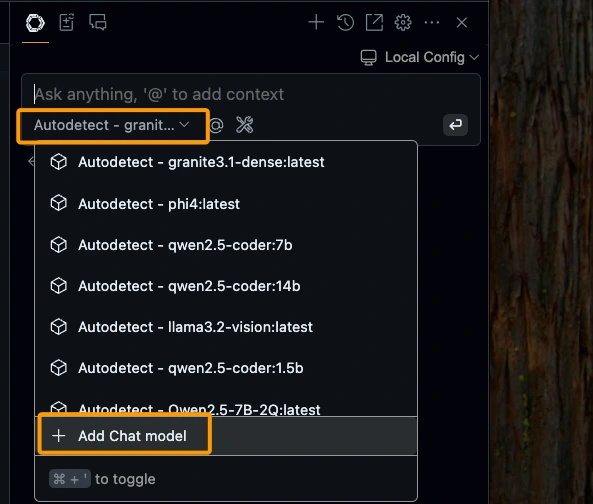
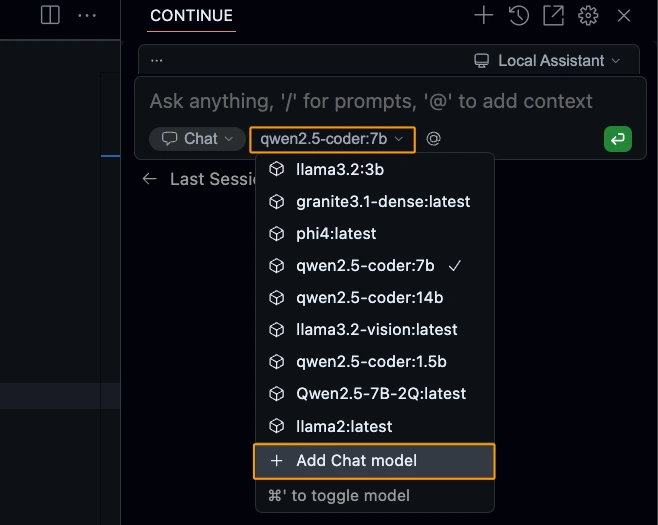
Site updated: 2025-03-29 16:49:34

diff --git a/2025/03/20/ollama-continue/index.html b/2025/03/20/ollama-continue/index.html
@@ -17,7 +17,7 @@
         <link rel="icon" href="https://petercha90.github.io/assets/images/pp.webp">
     
     
-    <script type="application/ld+json">{"@context":"http://schema.org","@type":"BlogPosting","author":{"@type":"Person","name":"Peter Cha","sameAs":[],"image":"peter.webp"},"articleBody":"\n\n\n\n\n안녕하세요, PETER입니다.👋  아시는 분들은 이미 아시는 내용일 수 있겠지만, 무료로 Offline AI 코딩 방법에 대해 두 Part에 걸쳐 나눠보려 합니다. Cursor AI나 Copilot과 같은 AI코딩을 사용하기에는 구독료가 부담스러우셨던 분들께도 좋은 소식이길 바랍니다.\n\n이제 우리는 코딩을 하기 위해서 비행기 안에서 와이파이 결재를 할 필요도 없고, 인터넷이 안되는 곳에서도 전기⚡만 있다면 AI와 함께 코딩을 계속할 수 있게 되니 너무 좋은 세상이네요.😭 본론으로 들어가 볼게요!🤟\n\n\n\n\n\n\n\n1. Ollama🦙 사용하기\nOllama🦙는 무료로 Local PC에서 LLM을 직접 실행할 수 있게 해주는 OpenSource Project입니다.🫰 링크를 따라들어가신 뒤에  자신의 OS에 맞게 Ollama를 설치해주세요.   \n  \n  Click Download! \n  \n\n&nbsp;&nbsp;&nbsp;&nbsp; ollama run\n이번에는 ollama run 명령어를 사용해서 LLM 모델을 다운로드 받고 실행하는 방법을 알아볼게요! 아래와 같이 ollama에서 Models 탭을 클릭해보세요. 이곳에서 당신은 ollama를 통해 다운받을 수 있는 Model을 확인할 수 있습니다. :) 빠른 실습을 위해 조금만 아래로 내리면 찾을 수 있는 llama3.2를 클릭해봅니다!\n  \n  \n   \n  \n\n아래와 같이, 좌측 상단의 dropdown을 클릭하면 기본적으로 해당 모델에서 제공되는 버전을 확인할 수 있고, 특정 버전을 클릭하면 우측에 다운받고 실행해볼 수 있는 ollama 명령어를 확인할 수 있어요. 3b를 클릭해봅니다. 그러면 우측 겹쳐진 네모 박스를 클릭해서 복사하셔서 붙여넣으셔도 좋고, ollama run llama3.2:3b를 터미널에 직접 입력해보세요!\n  \n  \n   \n  \n\n그렇다면 아래와 같이 모델 다운로드가 실행되고.. 대화할 수 있는 창이 실행될 거에요! \n  \n  \n   \n  \n\n아래와 같이 간단한 질문을 해보세요! :) 좀 이상하게 대답을 할 수는 있지만 인터넷이 없는 곳에서도 내 PC에서 LLM과 대화를 할 수 있다는 것을 확인하실 수 있을거에요.🤗\n  \n  \n   \n  \n축하합니다! 🥳🍾🎉 이것으로 당신은 인터넷이 없어도 대화할 수 있는, Offline LLM 실행에 성공하셨습니다!ㅎㅎ 너무 쉽죠? ㅎㅎㅎ 대화를 그만하고 싶다면 /bye를 입력하시면 됩니다!\n\n\n\n\n&nbsp;&nbsp;&nbsp;&nbsp; ollama list\n설치가 끝나셨다면, Linux나 Mac의 경우 Terminal&#x2F;Bash, Window는 Powershell 창을 열어주세요!  그리고 아래와 같이 ollama ls 혹은 ollama list를 실행해주세요. 현재 Ollama로 실행할 수 있는 모델들을 확인하실 수 있습니다!\n  bashbash(base)  PETER 🪵  ollama listNAME                       ID              SIZE      MODIFIEDllama3.2:3b                a80c4f17acd5    2.0 GB    3 days ago\n\n\n\n\n&nbsp;&nbsp;&nbsp;&nbsp; ollama rm\nollama의 다운받은 모델을 지우고 싶다면, ollama rm model_name:tag를 사용하시면 됩니다.🙂 llama3.2로 간단한 실습은 끝났으니 저는 아래 명령어로 모델을 지워버릴게요.😁\n  bashbash(base)  PETER 🪵 ollama rm llama3.2:3bdeleted 'llama3.2:3b'\n\n그 외에 다른 명령어들도 알고 싶으시다면, ollama라고만 입력해보세요! 더 많은 명령어들을 보실 수 있습니다.😉\n\n\n\n\n2. Continue 설치 &amp; 설정하기&nbsp;&nbsp;&nbsp;&nbsp; 2.1. Continue Extension 설치 🧑🏻💻\n자, 이제 다(?) 왔습니다! Continue라는 Extension만 설치하고, Ollama와 연결만하면 됩니다 :)! Continue는 VSCode Extension 혹은 JetBrains의 Plugin으로 설치할 수 있는데요! ‘continue’라고 검색하셔서 나오는 extension &#x2F; plugin을 설치해주세요.🤗\n  \n  \n  VSCode extension 설치 \n\n  \n  JetBrains plugin 설치 \n  \n\n설치가 끝났다면, 아래 .gif처럼 VSCode의 경우 Activity Bar에 Continue Icon이 생성됐을 거에요. 그걸 Drag &amp; Drop으로 우측으로 이동하면 우측에 고정시킬 수도 있어요! 저도 이렇게 사용 중입니다.\n  \n  \n   \n  \n\n\n\n&nbsp;&nbsp;&nbsp;&nbsp; 2.2. coder llm 다운받기 📥\ncoding 특화 llm을 다운받아 봅시다! 위에서 했던 방법과 똑같이 Ollama models에 들어가 아래와 같이 qwen2.5-coder:1.5b 모델을 확인하시고 ollama run 명령어로 다운받아 주세요! 물론 PC 사양이 좋으신 분들은 7b나 14b 추천드립니다 :)\n  \n  \n   \n  \n\n\n\n&nbsp;&nbsp;&nbsp;&nbsp; 2.3. ollama🦙 연결하기\n자, 이제 드디어 Ollama와 연결해보겠습니다. VSCode를 사용 중인 Mac이라면 Cmd + l, Windows라면 Ctrl + l을 입력해보세요! IntellJ를 사용하고 계신다면 Cmd + j, Windows라면 Ctrl + J를 눌러주세요! 그러면 아래와 같이 채팅 창이 뜰 거에요! \n  \n  \n   \n  \n\n여기서 Dropdown을 내리시고 아래와 같이 + Add Chat model을 클릭해주세요. Dropdown을 내렸을 때 모습은 캡쳐한 제 내용과 다를 거에요! 저는 이미 연동이 돼있어서 그렇습니다..!😗\n  \n  \n   \n  \n\n그 다음에는 OpenAI로 선택되어 있는 Provider를 귀여운 Ollama로 바꿔서 클릭해줍니다. \n  \n  \n   \n  \n\n아래 Model 칸은 Autodetect로 설정해주시면 됩니다. Autodetect로 설정이 되어있다면 그대로 두시면 돼요! 그 다음, Connect를 클릭해주세요! \n  \n  \n   \n  \n\n아래와 같이 config.json이 갑자기 나타나면서 provider가 ollama로 설정된 AUTODETECT를 확인하셨다면 제대로 설정이 된 것입니다! config.json은 닫으셔도 됩니다.\n  \n  \n   \n  \n\n그 다음 다시 채팅창을 열어보시고 Autodetect - qwen2.5-coder:1.5b가 잘 뜨는지 확인해보세요! 확인이 되셨다면 클릭해서 모델을 선택해주세요 :)!\n  \n  \n   \n  \n\n\n\n3. 🧑🏻💻 Continue와 코딩해보기\n지금부터 진행할 내용들은 사용하는 PC의 사양과 사용하는 모델의 크기에 따라 응답속도가 다를 수 있으니 참고해주세요! 😼\n\n자, 그럼 이제 본격적으로 Continue를 통해 Ollama AI와 함께 코딩 실습을 해볼게요! 편하신 곳에 아래와 같이 test.py(혹은 test.java) 파일을 만드시고, Ctrl + l &#x2F; Cmd + l을 눌러서 아래와 같이 실습 준비를 해주세요! IntelliJ는 Ctrl + j &#x2F; Cmd + j를 눌러주세요! 저는 Python으로 해볼게요 :)\n  \n  \n   \n  \n\n아래와 같이 ‘피보나치 수열 python 코딩’이라고 입력하고 엔터를 쳐보세요! 잠시 기다리시면, 답변을 얻을 수 있을 거에요 :) 아래 이미지의 Click!이라고 적은 버튼을 누르면, 현재 커서가 위치한 곳에 답변으로 나온 코드가 바로 붙여넣기 될 거에요! \n  \n  \n   \n  \n\n물론 바로 옆 버튼을 눌러서 전체 코드 복사 후, 원하는 위치에 붙여넣을 수도 있고, 일부분만 마우스로 Drag해서 복사 &amp; 붙여넣기할 수도 있어요. :)\n\n\n&nbsp;&nbsp;&nbsp;&nbsp; ✍ 코드 수정 부탁해보기\n이제 생성해서 붙여넣은 Fibonacci 코드에 아래와 같이 함수가 실행될 때 마다, 들어온 숫자를 확인할 수 있게 코드를 수정하고 싶다고 가정해봅시다. 이 때, 수정하고 싶은 부분을 아래와 같이 Drag를 하고 `Ctrl+l` or `Cmd + l`을 누르면 해당 코드를 LLM에게 Context로 전달해서 질문을 할 수 있어요 :)\n  \n  \n   \n  \n자, 이제 아래와 같이 잘 수정해준 코드를 실제 내 코드에 적용을 해봐야겠죠? Apply버튼을 눌려줍니다.\n  \n  \n   \n  \n\nApply 버튼을 눌렀다면 Continue가 똑똑하게 위에서부터 코드를 내려가며 수정이 필요한 알맞은 곳을 찾아 수정을 해주는데요(PC 사양과 사용하는 모델의 크기에 따라 시간이 꽤 걸리기도 해요.), 수정 내용이 마음에 드신다면 Accept을, 마음에 들지 않는다면 Reject을 클릭해주시면 됩니다. :) \n  \n  \n   \n  \n\n&nbsp;&nbsp;&nbsp;&nbsp; 📨 파일 참조시키기!\n마지막으로, 특정 파일을 태그해서 질문을 해볼게요! 우리가 채팅어플에서 누군가를 소환할 때 사용하는, @를 똑같이 사용하면 아래와 같이 원하는 파일을 LLM에게 인식시킨 상태로 질문을 할 수 있어요!  \n  \n   \n  \n그럼 아래와 같이 해당 코드를 제대로 파악했을 때만 대답할 수 있는 답변을 확인해 볼 수 있습니다. :)  \n  \n   \n  \n\n&nbsp;&nbsp;&nbsp;&nbsp; 🌷 AI Assistant의 꽃, Autocomplete 사용하기\n자 이제 마지막으로, AI Assistant 사용의 가장 큰 혜택이라 볼 수 있는 코드 자동완성기능을 사용해보도록 하겠습니다.😎\n\nContinue의 환경설정을 하는 config.json파일을 여는 방법은 두 가지가 있는데요, 첫 번째는 아래와 같이 채팅창 UI에서 ‘Local Config’라고 써져있는 것을 클릭하면 나오는 메뉴에 마우스를 가져가면 톱니바퀴 모양 아이콘이 나옵니다. 클릭해주세요. \n  \n  \n   \n  \n\n두 번째는 ‘Local Config’ 위에 보면 나와있는 톱니바퀴 아이콘을 클릭하시면 나오는 화면에서 Configuration 영역을 보시면 ‘Open Config File’이라고 써져있는 버튼이 보이실 거에요. 그 버튼을 눌러줍니다. :) 아래와 같이 ‘Model Roles’ 메뉴의 ‘Autocomplete’부분이 비활성화 되어있을텐데요, 이걸 이제 활성화 시켜볼 거에요.\n  \n  \n   \n  \n그렇다면 위와같이 config.json 파일이 나옵니다. 맨 위에 나오는 “models”로 시작하는 코드 다음에, 아래와 같이 “tabAutocompleteModel” 코드를 추가해줍니다.🤗 혹시 코드 추가 후에 저장하면 에러가 나시는 분들은 추가한 코드 위아래에 ,(쉼표)를 추가했는지 확인해주세요!😉\n  config.jsonjson{    \"models\": [        {        \"model\": \"AUTODETECT\",        \"title\": \"Autodetect\",        \"provider\": \"ollama\"        }    ],    \"tabAutocompleteModel\": {        \"title\": \"Qwen 1.5b Autocomplete Model\",        \"provider\": \"ollama\",         \"model\": \"qwen2.5-coder:1.5b\"    },    \"tabAutocompleteOptions\": {        \"debounceDelay\": 500,        \"maxPromptTokens\": 1500    },    \"customCommands\": [    ...   \n\n자, 그럼 Autocomplete이 잘 되는지 확인해볼까요? 아래와 같이 테스트하던 test.py로 와서 ‘# 피보나치 함수 n&#x3D;10과 n&#x3D;5의 합을 출력하는 함수’라고 주석을 쓴 뒤, 엔터를 하고 기다려 보면 음영처리된 자동완성된 코드가 보일거에요.😎 tab키를 입력해보세요! 보이는 모든 코드가 입력됩니다. :)\n  \n  \n   \n  \n만약 음영으로 자동완성된 모든 코드를 입력하지 않고, 토큰 단위로 하나하나 입력해나가고 싶다면 아래 이미지에서 보이는 것처럼 Cmd or Ctrl을 누르시고 ➡(오른쪽 화살표)를 입력하시면 하나씩 코드를 반영할 수도 있습니다. :)\n  \n  \n   \n  \n\n\n\n&nbsp;&nbsp;&nbsp;&nbsp; P.S.\n아래 두 가지를 참고하시면 좋을 것 같아 적어봅니다. :)\n\n\n혹시나 아래와 같이 질문에 대답이 빨리 나오지않고 너무 오래걸리거나 잘 안된다면,😿 VSCode를 껏다 켜보거나 Ollama를 재시작해보세요!\nCode Assistant에 특화된 모델들이 어떤 것들이 있는지, 요즘은 어떤 모델이 잘 나가는지 궁금하실 수 있어요. 저 같은 경우 huggingface의 bigcode-model-leaderboard와 같은 곳을 보고있어요. 참고해주세요!\n\n\n\n그럼, Happy Coding!🤗\n\n\n\n\n\n여기까지 ollama를 소개하고, Ollama와 continue를 이용해서 로컬에서 LLM을 Offline에서도 Code Assistant로 사용하는 방법에 대해 알아봤습니다! 🤗 Part. 2에서는 Huggingface에서 모델을 다운받고, Ollama로 커스텀 설정하여 사용하는 방법(약간의 Prompt Engieering 포함)과 무료는 아니지만 Continue에서 아주 가성비 좋은 Code Assistant Provider인 Together.ai를 연동하는 방법에 대해 알아볼게요!😉\n혹시나 잘못 기입된 내용이 있거나 수정이 필요한 부분은 댓글로 알려주시면 감사하겠습니다!\n\n\n\n&nbsp;&nbsp;&nbsp;&nbsp; 읽어주셔서 감사합니다!🙇🏻♂\n\nReferences\n&nbsp;&nbsp; TILNOTE, Conitnue Docs\n\n","dateCreated":"2025-03-20T20:31:23+09:00","dateModified":"2025-03-27T09:15:27+09:00","datePublished":"2025-03-20T20:31:23+09:00","description":"\n\nOllama와 함께라면 AI Coding도 무료!🦙\nContinue로 LLM AI Assistant 사용하기!\n","headline":"🦙Ollama + Continue = 🧡","image":["thumbnail.png","cover.png"],"mainEntityOfPage":{"@type":"WebPage","@id":"https://petercha90.github.io/2025/03/20/ollama-continue/"},"publisher":{"@type":"Organization","name":"Peter Cha","sameAs":[],"image":"peter.webp","logo":{"@type":"ImageObject","url":"peter.webp"}},"url":"https://petercha90.github.io/2025/03/20/ollama-continue/","keywords":"tutorial, ollama, continue, ai_coding, 무료 AI","thumbnailUrl":"thumbnail.png"}</script>
+    <script type="application/ld+json">{"@context":"http://schema.org","@type":"BlogPosting","author":{"@type":"Person","name":"Peter Cha","sameAs":[],"image":"peter.webp"},"articleBody":"\n\n\n\n\n안녕하세요, PETER입니다.👋  아시는 분들은 이미 아시는 내용일 수 있겠지만, 무료로 Offline AI 코딩 방법에 대해 두 Part에 걸쳐 나눠보려 합니다. Cursor AI나 Copilot과 같은 AI코딩을 사용하기에는 구독료가 부담스러우셨던 분들께도 좋은 소식이길 바랍니다.\n\n이제 우리는 코딩을 하기 위해서 비행기 안에서 와이파이 결재를 할 필요도 없고, 인터넷이 안되는 곳에서도 전기⚡만 있다면 AI와 함께 코딩을 계속할 수 있게 되니 너무 좋은 세상이네요.😭 본론으로 들어가 볼게요!🤟\n\n\n\n\n\n\n\n1. Ollama🦙 사용하기\nOllama🦙는 무료로 Local PC에서 LLM을 직접 실행할 수 있게 해주는 OpenSource Project입니다.🫰 링크를 따라들어가신 뒤에  자신의 OS에 맞게 Ollama를 설치해주세요.   \n  \n  Click Download! \n  \n\n&nbsp;&nbsp;&nbsp;&nbsp; ollama run\n이번에는 ollama run 명령어를 사용해서 LLM 모델을 다운로드 받고 실행하는 방법을 알아볼게요! 아래와 같이 ollama에서 Models 탭을 클릭해보세요. 이곳에서 당신은 ollama를 통해 다운받을 수 있는 Model을 확인할 수 있습니다. :) 빠른 실습을 위해 조금만 아래로 내리면 찾을 수 있는 llama3.2를 클릭해봅니다!\n  \n  \n   \n  \n\n아래와 같이, 좌측 상단의 dropdown을 클릭하면 기본적으로 해당 모델에서 제공되는 버전을 확인할 수 있고, 특정 버전을 클릭하면 우측에 다운받고 실행해볼 수 있는 ollama 명령어를 확인할 수 있어요. 3b를 클릭해봅니다. 그러면 우측 겹쳐진 네모 박스를 클릭해서 복사하셔서 붙여넣으셔도 좋고, ollama run llama3.2:3b를 터미널에 직접 입력해보세요!\n  \n  \n   \n  \n\n그렇다면 아래와 같이 모델 다운로드가 실행되고.. 대화할 수 있는 창이 실행될 거에요! \n  \n  \n   \n  \n\n아래와 같이 간단한 질문을 해보세요! :) 좀 이상하게 대답을 할 수는 있지만 인터넷이 없는 곳에서도 내 PC에서 LLM과 대화를 할 수 있다는 것을 확인하실 수 있을거에요.🤗\n  \n  \n   \n  \n축하합니다! 🥳🍾🎉 이것으로 당신은 인터넷이 없어도 대화할 수 있는, Offline LLM 실행에 성공하셨습니다!ㅎㅎ 너무 쉽죠? ㅎㅎㅎ 대화를 그만하고 싶다면 /bye를 입력하시면 됩니다!\n\n\n\n\n&nbsp;&nbsp;&nbsp;&nbsp; ollama list\n설치가 끝나셨다면, Linux나 Mac의 경우 Terminal&#x2F;Bash, Window는 Powershell 창을 열어주세요!  그리고 아래와 같이 ollama ls 혹은 ollama list를 실행해주세요. 현재 Ollama로 실행할 수 있는 모델들을 확인하실 수 있습니다!\n  bashbash(base)  PETER 🪵  ollama listNAME                       ID              SIZE      MODIFIEDllama3.2:3b                a80c4f17acd5    2.0 GB    3 days ago\n\n\n\n\n&nbsp;&nbsp;&nbsp;&nbsp; ollama rm\nollama의 다운받은 모델을 지우고 싶다면, ollama rm model_name:tag를 사용하시면 됩니다.🙂 llama3.2로 간단한 실습은 끝났으니 저는 아래 명령어로 모델을 지워버릴게요.😁\n  bashbash(base)  PETER 🪵 ollama rm llama3.2:3bdeleted 'llama3.2:3b'\n\n그 외에 다른 명령어들도 알고 싶으시다면, ollama라고만 입력해보세요! 더 많은 명령어들을 보실 수 있습니다.😉\n\n\n\n\n2. Continue 설치 &amp; 설정하기&nbsp;&nbsp;&nbsp;&nbsp; 2.1. Continue Extension 설치 🧑🏻💻\n자, 이제 다(?) 왔습니다! Continue라는 Extension만 설치하고, Ollama와 연결만하면 됩니다 :)! Continue는 VSCode Extension 혹은 JetBrains의 Plugin으로 설치할 수 있는데요! ‘continue’라고 검색하셔서 나오는 extension &#x2F; plugin을 설치해주세요.🤗\n  \n  \n  VSCode extension 설치 \n\n  \n  JetBrains plugin 설치 \n  \n\n설치가 끝났다면, 아래 .gif처럼 VSCode의 경우 Activity Bar에 Continue Icon이 생성됐을 거에요. 그걸 Drag &amp; Drop으로 우측으로 이동하면 우측에 고정시킬 수도 있어요! 저도 이렇게 사용 중입니다.\n  \n  \n   \n  \n\n\n\n&nbsp;&nbsp;&nbsp;&nbsp; 2.2. coder llm 다운받기 📥\ncoding 특화 llm을 다운받아 봅시다! 위에서 했던 방법과 똑같이 Ollama models에 들어가 아래와 같이 qwen2.5-coder:1.5b 모델을 확인하시고 ollama run 명령어로 다운받아 주세요! 물론 PC 사양이 좋으신 분들은 7b나 14b 추천드립니다 :)\n  \n  \n   \n  \n\n\n\n&nbsp;&nbsp;&nbsp;&nbsp; 2.3. ollama🦙 연결하기\n자, 이제 드디어 Ollama와 연결해보겠습니다. VSCode를 사용 중인 Mac이라면 Cmd + l, Windows라면 Ctrl + l을 입력해보세요! IntellJ를 사용하고 계신다면 Cmd + j, Windows라면 Ctrl + J를 눌러주세요! 그러면 아래와 같이 채팅 창이 뜰 거에요! \n  \n  \n   \n  \n\n여기서 Dropdown을 내리시고 아래와 같이 + Add Chat model을 클릭해주세요. Dropdown을 내렸을 때 모습은 캡쳐한 제 내용과 다를 거에요! 저는 이미 연동이 돼있어서 그렇습니다..!😗\n  \n  \n   \n  \n\n그 다음에는 OpenAI로 선택되어 있는 Provider를 귀여운 Ollama로 바꿔서 클릭해줍니다. \n  \n  \n   \n  \n\n아래 Model 칸은 Autodetect로 설정해주시면 됩니다. Autodetect로 설정이 되어있다면 그대로 두시면 돼요! 그 다음, Connect를 클릭해주세요! \n  \n  \n   \n  \n\n아래와 같이 config.json이 갑자기 나타나면서 provider가 ollama로 설정된 AUTODETECT를 확인하셨다면 제대로 설정이 된 것입니다! config.json은 닫으셔도 됩니다.\n  \n  \n   \n  \n\n그 다음 다시 채팅창을 열어보시고 Autodetect - qwen2.5-coder:1.5b가 잘 뜨는지 확인해보세요! 확인이 되셨다면 클릭해서 모델을 선택해주세요 :)!\n  \n  \n   \n  \n\n\n\n3. 🧑🏻💻 Continue와 코딩해보기\n지금부터 진행할 내용들은 사용하는 PC의 사양과 사용하는 모델의 크기에 따라 응답속도가 다를 수 있으니 참고해주세요! 😼\n\n자, 그럼 이제 본격적으로 Continue를 통해 Ollama AI와 함께 코딩 실습을 해볼게요! 편하신 곳에 아래와 같이 test.py(혹은 test.java) 파일을 만드시고, Ctrl + l &#x2F; Cmd + l을 눌러서 아래와 같이 실습 준비를 해주세요! IntelliJ는 Ctrl + j &#x2F; Cmd + j를 눌러주세요! 저는 Python으로 해볼게요 :)\n  \n  \n   \n  \n\n아래와 같이 ‘피보나치 수열 python 코딩’이라고 입력하고 엔터를 쳐보세요! 잠시 기다리시면, 답변을 얻을 수 있을 거에요 :) 아래 이미지의 Click!이라고 적은 버튼을 누르면, 현재 커서가 위치한 곳에 답변으로 나온 코드가 바로 붙여넣기 될 거에요! \n  \n  \n   \n  \n\n물론 바로 옆 버튼을 눌러서 전체 코드 복사 후, 원하는 위치에 붙여넣을 수도 있고, 일부분만 마우스로 Drag해서 복사 &amp; 붙여넣기할 수도 있어요. :)\n\n\n&nbsp;&nbsp;&nbsp;&nbsp; ✍ 코드 수정 부탁해보기\n이제 생성해서 붙여넣은 Fibonacci 코드에 아래와 같이 함수가 실행될 때 마다, 들어온 숫자를 확인할 수 있게 코드를 수정하고 싶다고 가정해봅시다. 이 때, 수정하고 싶은 부분을 아래와 같이 Drag를 하고 `Ctrl+l` or `Cmd + l`을 누르면 해당 코드를 LLM에게 Context로 전달해서 질문을 할 수 있어요 :)\n  \n  \n   \n  \n자, 이제 아래와 같이 잘 수정해준 코드를 실제 내 코드에 적용을 해봐야겠죠? Apply버튼을 눌려줍니다.\n  \n  \n   \n  \n\nApply 버튼을 눌렀다면 Continue가 똑똑하게 위에서부터 코드를 내려가며 수정이 필요한 알맞은 곳을 찾아 수정을 해주는데요(PC 사양과 사용하는 모델의 크기에 따라 시간이 꽤 걸리기도 해요.), 수정 내용이 마음에 드신다면 Accept을, 마음에 들지 않는다면 Reject을 클릭해주시면 됩니다. :) \n  \n  \n   \n  \n\n&nbsp;&nbsp;&nbsp;&nbsp; 📨 파일 참조시키기!\n마지막으로, 특정 파일을 태그해서 질문을 해볼게요! 우리가 채팅어플에서 누군가를 소환할 때 사용하는, @를 똑같이 사용하면 아래와 같이 원하는 파일을 LLM에게 인식시킨 상태로 질문을 할 수 있어요!  \n  \n   \n  \n그럼 아래와 같이 해당 코드를 제대로 파악했을 때만 대답할 수 있는 답변을 확인해 볼 수 있습니다. :)  \n  \n   \n  \n\n&nbsp;&nbsp;&nbsp;&nbsp; 🌷 AI Assistant의 꽃, Autocomplete 사용하기\n자 이제 마지막으로, AI Assistant 사용의 가장 큰 혜택이라 볼 수 있는 코드 자동완성기능을 사용해보도록 하겠습니다.😎\n\nContinue의 환경설정을 하는 config.json파일을 여는 방법은 두 가지가 있는데요, 첫 번째는 아래와 같이 채팅창 UI에서 ‘Local Assistant’라고 써져있는 것을 클릭하면 나오는 메뉴에 마우스를 가져가면 톱니바퀴 모양 아이콘이 나옵니다. 클릭해주세요. \n  \n  \n   \n  \n\n두 번째는 채팅창 좌측 윗부분을 보시면, 아래와 같이 점 3개가 보이실 거에요. 한 번 클릭해 보세요! 뭔가 쫙 뜰거에요!👀\n\n\n \n\n\n첫 번째에 있는 상자같이 생긴 녀석을 클릭해주시면 그 녀석이 Continue에서 사용할 모델들을 설정할 수 있는 ‘Models’ 영역이에요. :) 아래와 같이 ‘Autocomplete’부분이 비활성화 되어있을텐데요, 이걸 이제 활성화 시켜볼 거에요. + Add Models버튼을 눌러보세요! \n  \n  \n   \n  \n그렇다면 위와같이 config.json 파일이 나옵니다. 맨 위에 나오는 “models”로 시작하는 코드 다음에, 아래와 같이 “tabAutocompleteModel” 코드를 추가해줍니다.🤗 혹시 코드 추가 후에 저장하면 에러가 나시는 분들은 추가한 코드 위아래에 ,(쉼표)를 추가했는지 확인해주세요!😉\n  config.jsonjson{    \"models\": [        {        \"model\": \"AUTODETECT\",        \"title\": \"Autodetect\",        \"provider\": \"ollama\"        }    ],    \"tabAutocompleteModel\": {        \"title\": \"Qwen 1.5b Autocomplete Model\",        \"provider\": \"ollama\",         \"model\": \"qwen2.5-coder:1.5b\"    },    \"tabAutocompleteOptions\": {        \"debounceDelay\": 500,        \"maxPromptTokens\": 1500    },    \"customCommands\": [    ...   \n\n자, 그럼 Autocomplete이 잘 되는지 확인해볼까요? 아래와 같이 테스트하던 test.py로 와서 ‘# 피보나치 함수 n&#x3D;10과 n&#x3D;5의 합을 출력하는 함수’라고 주석을 쓴 뒤, 엔터를 하고 기다려 보면 음영처리된 자동완성된 코드가 보일거에요.😎 tab키를 입력해보세요! 보이는 모든 코드가 입력됩니다. :)\n  \n  \n   \n  \n만약 음영으로 자동완성된 모든 코드를 입력하지 않고, 토큰 단위로 하나하나 입력해나가고 싶다면 아래 이미지에서 보이는 것처럼 Cmd or Ctrl을 누르시고 ➡(오른쪽 화살표)를 입력하시면 하나씩 코드를 반영할 수도 있습니다. :)\n  \n  \n   \n  \n\n\n\n&nbsp;&nbsp;&nbsp;&nbsp; P.S.\n아래 두 가지를 참고하시면 좋을 것 같아 적어봅니다. :)\n\n\n혹시나 아래와 같이 질문에 대답이 빨리 나오지않고 너무 오래걸리거나 잘 안된다면,😿 VSCode를 껏다 켜보거나 Ollama를 재시작해보세요!\nCode Assistant에 특화된 모델들이 어떤 것들이 있는지, 요즘은 어떤 모델이 잘 나가는지 궁금하실 수 있어요. 저 같은 경우 huggingface의 bigcode-model-leaderboard와 같은 곳을 보고있어요. 참고해주세요!\n\n\n\n그럼, Happy Coding!🤗\n\n\n\n\n\n여기까지 ollama를 소개하고, Ollama와 continue를 이용해서 로컬에서 LLM을 Offline에서도 Code Assistant로 사용하는 방법에 대해 알아봤습니다! 🤗 Part. 2에서는 Huggingface에서 모델을 다운받고, Ollama로 커스텀 설정하여 사용하는 방법(약간의 Prompt Engieering 포함)과 무료는 아니지만 Continue에서 아주 가성비 좋은 Code Assistant Provider인 Together.ai를 연동하는 방법에 대해 알아볼게요!😉\n혹시나 잘못 기입된 내용이 있거나 수정이 필요한 부분은 댓글로 알려주시면 감사하겠습니다!\n\n\n\n&nbsp;&nbsp;&nbsp;&nbsp; 읽어주셔서 감사합니다!🙇🏻♂\n\nReferences\n&nbsp;&nbsp; TILNOTE, Conitnue Docs\n\n","dateCreated":"2025-03-20T20:31:23+09:00","dateModified":"2025-03-29T16:48:02+09:00","datePublished":"2025-03-20T20:31:23+09:00","description":"\n\nOllama와 함께라면 AI Coding도 무료!🦙\nContinue로 LLM AI Assistant 사용하기!\n","headline":"🦙Ollama + Continue = 🧡","image":["thumbnail.png","cover.png"],"mainEntityOfPage":{"@type":"WebPage","@id":"https://petercha90.github.io/2025/03/20/ollama-continue/"},"publisher":{"@type":"Organization","name":"Peter Cha","sameAs":[],"image":"peter.webp","logo":{"@type":"ImageObject","url":"peter.webp"}},"url":"https://petercha90.github.io/2025/03/20/ollama-continue/","keywords":"tutorial, ollama, continue, ai_coding, 무료 AI","thumbnailUrl":"thumbnail.png"}</script>
     <meta name="description" content="Ollama와 함께라면 AI Coding도 무료!🦙 Continue로 LLM AI Assistant 사용하기!">
 <meta property="og:type" content="blog">
 <meta property="og:title" content="🦙Ollama + Continue &#x3D; 🧡">
@@ -48,11 +48,12 @@
 <meta property="og:image" content="https://petercha90.github.io/2025/03/20/ollama-continue/test_6.webp">
 <meta property="og:image" content="https://petercha90.github.io/2025/03/20/ollama-continue/test_7.webp">
 <meta property="og:image" content="https://petercha90.github.io/2025/03/20/ollama-continue/test_8.webp">
+<meta property="og:image" content="https://petercha90.github.io/2025/03/20/ollama-continue/update.webp">
 <meta property="og:image" content="https://petercha90.github.io/2025/03/20/ollama-continue/test_9.webp">
 <meta property="og:image" content="https://petercha90.github.io/2025/03/20/ollama-continue/test_10.webp">
 <meta property="og:image" content="https://petercha90.github.io/2025/03/20/ollama-continue/test_11.webp">
 <meta property="article:published_time" content="2025-03-20T11:31:23.000Z">
-<meta property="article:modified_time" content="2025-03-27T00:15:27.461Z">
+<meta property="article:modified_time" content="2025-03-29T07:48:02.959Z">
 <meta property="article:author" content="Peter Cha">
 <meta property="article:tag" content="tutorial">
 <meta property="article:tag" content="ollama">
@@ -505,13 +506,19 @@
 <h5 id="nbsp-nbsp-nbsp-nbsp-🌷-AI-Assistant의-꽃-Autocomplete-사용하기"><a href="#nbsp-nbsp-nbsp-nbsp-🌷-AI-Assistant의-꽃-Autocomplete-사용하기" class="headerlink" title="&nbsp;&nbsp;&nbsp;&nbsp; 🌷 AI Assistant의 꽃, Autocomplete 사용하기"></a>&nbsp;&nbsp;&nbsp;&nbsp; 🌷 AI Assistant의 꽃, Autocomplete 사용하기</h5><ul>
 <li><p>자 이제 마지막으로, AI Assistant 사용의 가장 큰 혜택이라 볼 수 있는 코드 자동완성기능을 사용해보도록 하겠습니다.😎</p>
 </li>
-<li><p><u><strong>Continue의 환경설정을 하는 <code>config.json</code>파일</strong></u>을 여는 방법은 두 가지가 있는데요, 첫 번째는 아래와 같이 채팅창 UI에서 ‘Local Config’라고 써져있는 것을 클릭하면 나오는 메뉴에 마우스를 가져가면 톱니바퀴 모양 아이콘이 나옵니다. 클릭해주세요. </p>
+<li><p><u><strong>Continue의 환경설정을 하는 <code>config.json</code>파일</strong></u>을 여는 방법은 두 가지가 있는데요, 첫 번째는 아래와 같이 채팅창 UI에서 ‘Local Assistant’라고 써져있는 것을 클릭하면 나오는 메뉴에 마우스를 가져가면 톱니바퀴 모양 아이콘이 나옵니다. 클릭해주세요. </p>
   <center>
   <img src="test_8.webp" style="width:600px;margin-top:15px;">
   <div style="color: rgba(0, 0, 0, 0.5);font-size: 11pt;margin-bottom:10px;"></div> 
   </center>
 </li>
-<li><p>두 번째는 ‘Local Config’ 위에 보면 나와있는 톱니바퀴 아이콘을 클릭하시면 나오는 화면에서 <code>Configuration</code> 영역을 보시면 ‘Open Config File’이라고 써져있는 버튼이 보이실 거에요. 그 버튼을 눌러줍니다. :) 아래와 같이 ‘Model Roles’ 메뉴의 ‘Autocomplete’부분이 비활성화 되어있을텐데요, 이걸 이제 활성화 시켜볼 거에요.</p>
+<li><p>두 번째는 채팅창 좌측 윗부분을 보시면, 아래와 같이 점 3개가 보이실 거에요. 한 번 클릭해 보세요! 뭔가 쫙 뜰거에요!👀</p>
+<center>
+<img src="update.webp" style="width:600px;margin-top:15px;">
+<div style="color: rgba(0, 0, 0, 0.5);font-size: 11pt;margin-bottom:10px;"></div> 
+</center>
+</li>
+<li><p>첫 번째에 있는 상자같이 생긴 녀석을 클릭해주시면 그 녀석이 Continue에서 사용할 모델들을 설정할 수 있는 ‘Models’ 영역이에요. :) 아래와 같이 ‘Autocomplete’부분이 비활성화 되어있을텐데요, 이걸 이제 활성화 시켜볼 거에요. <code>+ Add Models</code>버튼을 눌러보세요! </p>
   <center>
   <img src="test_9.webp" style="width:100%;margin-top:15px;">
   <div style="color: rgba(0, 0, 0, 0.5);font-size: 11pt;margin-bottom:10px;"></div> 
